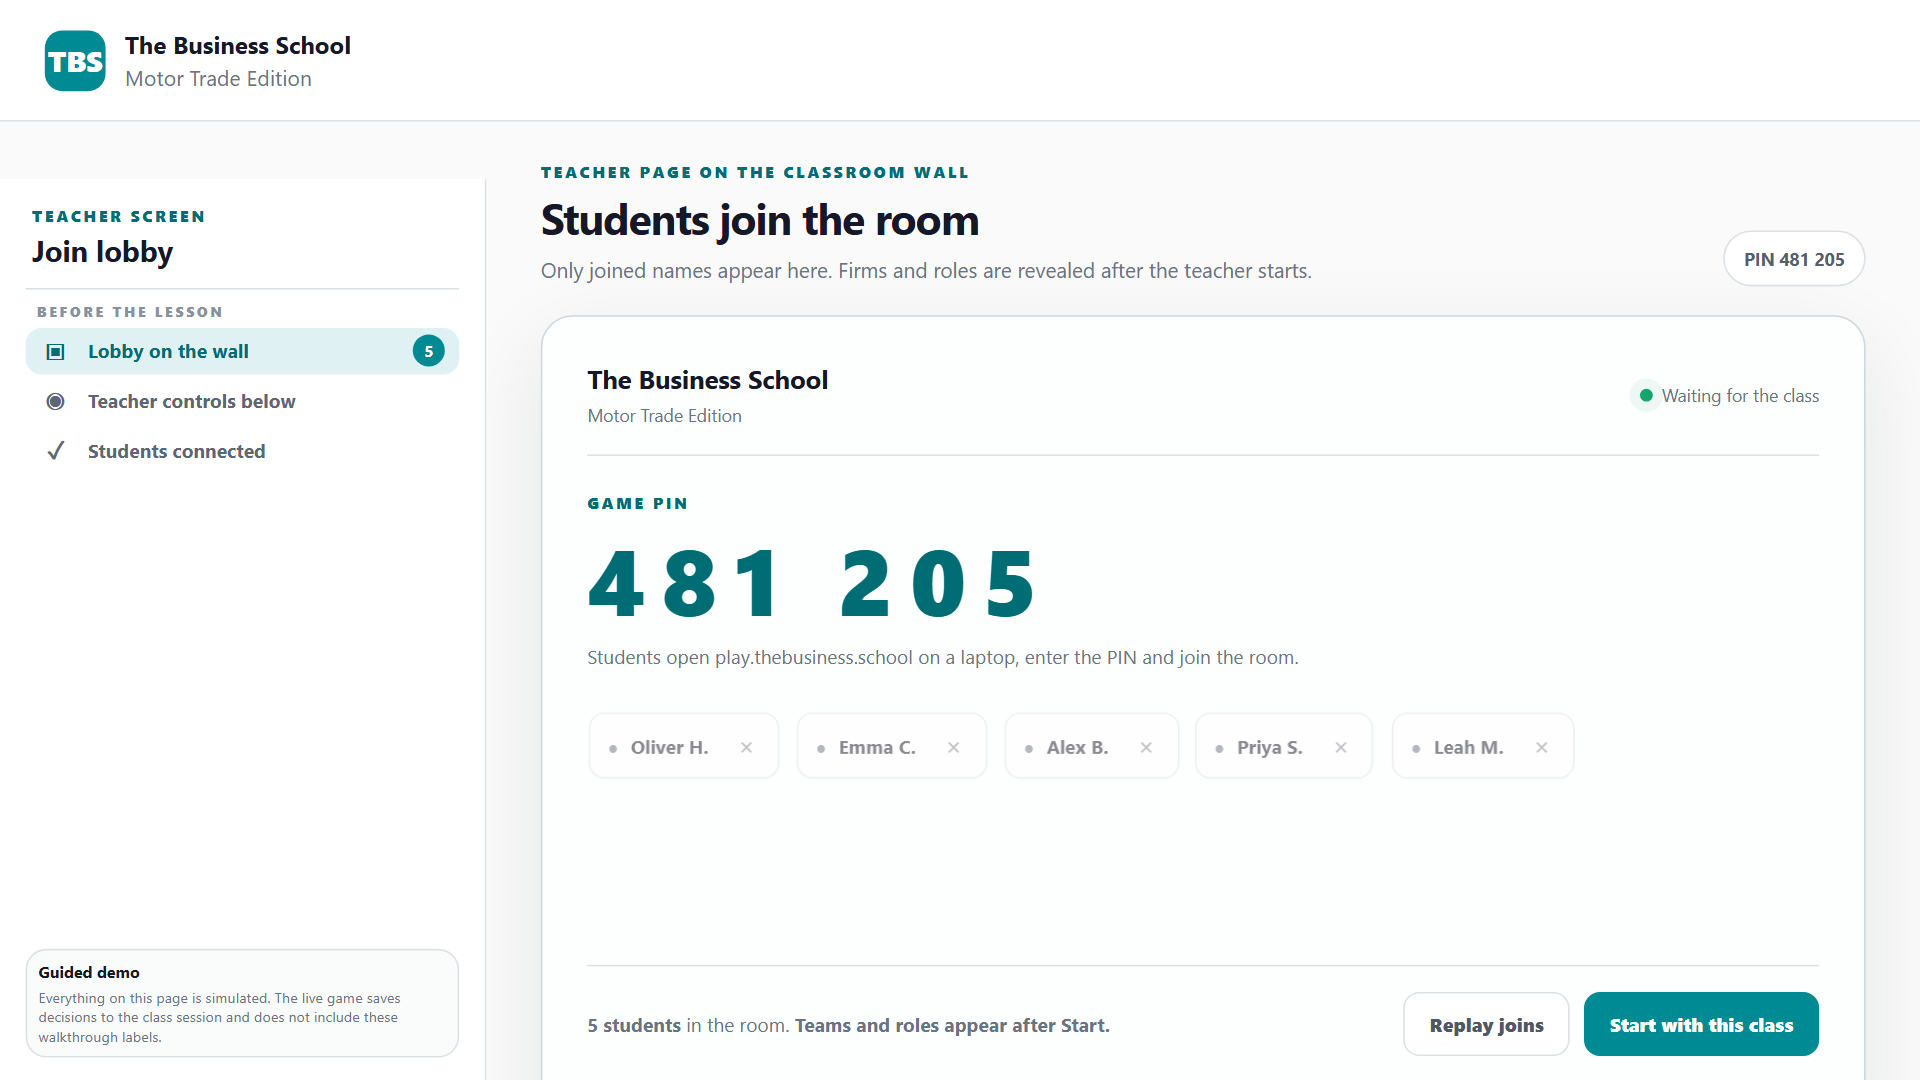
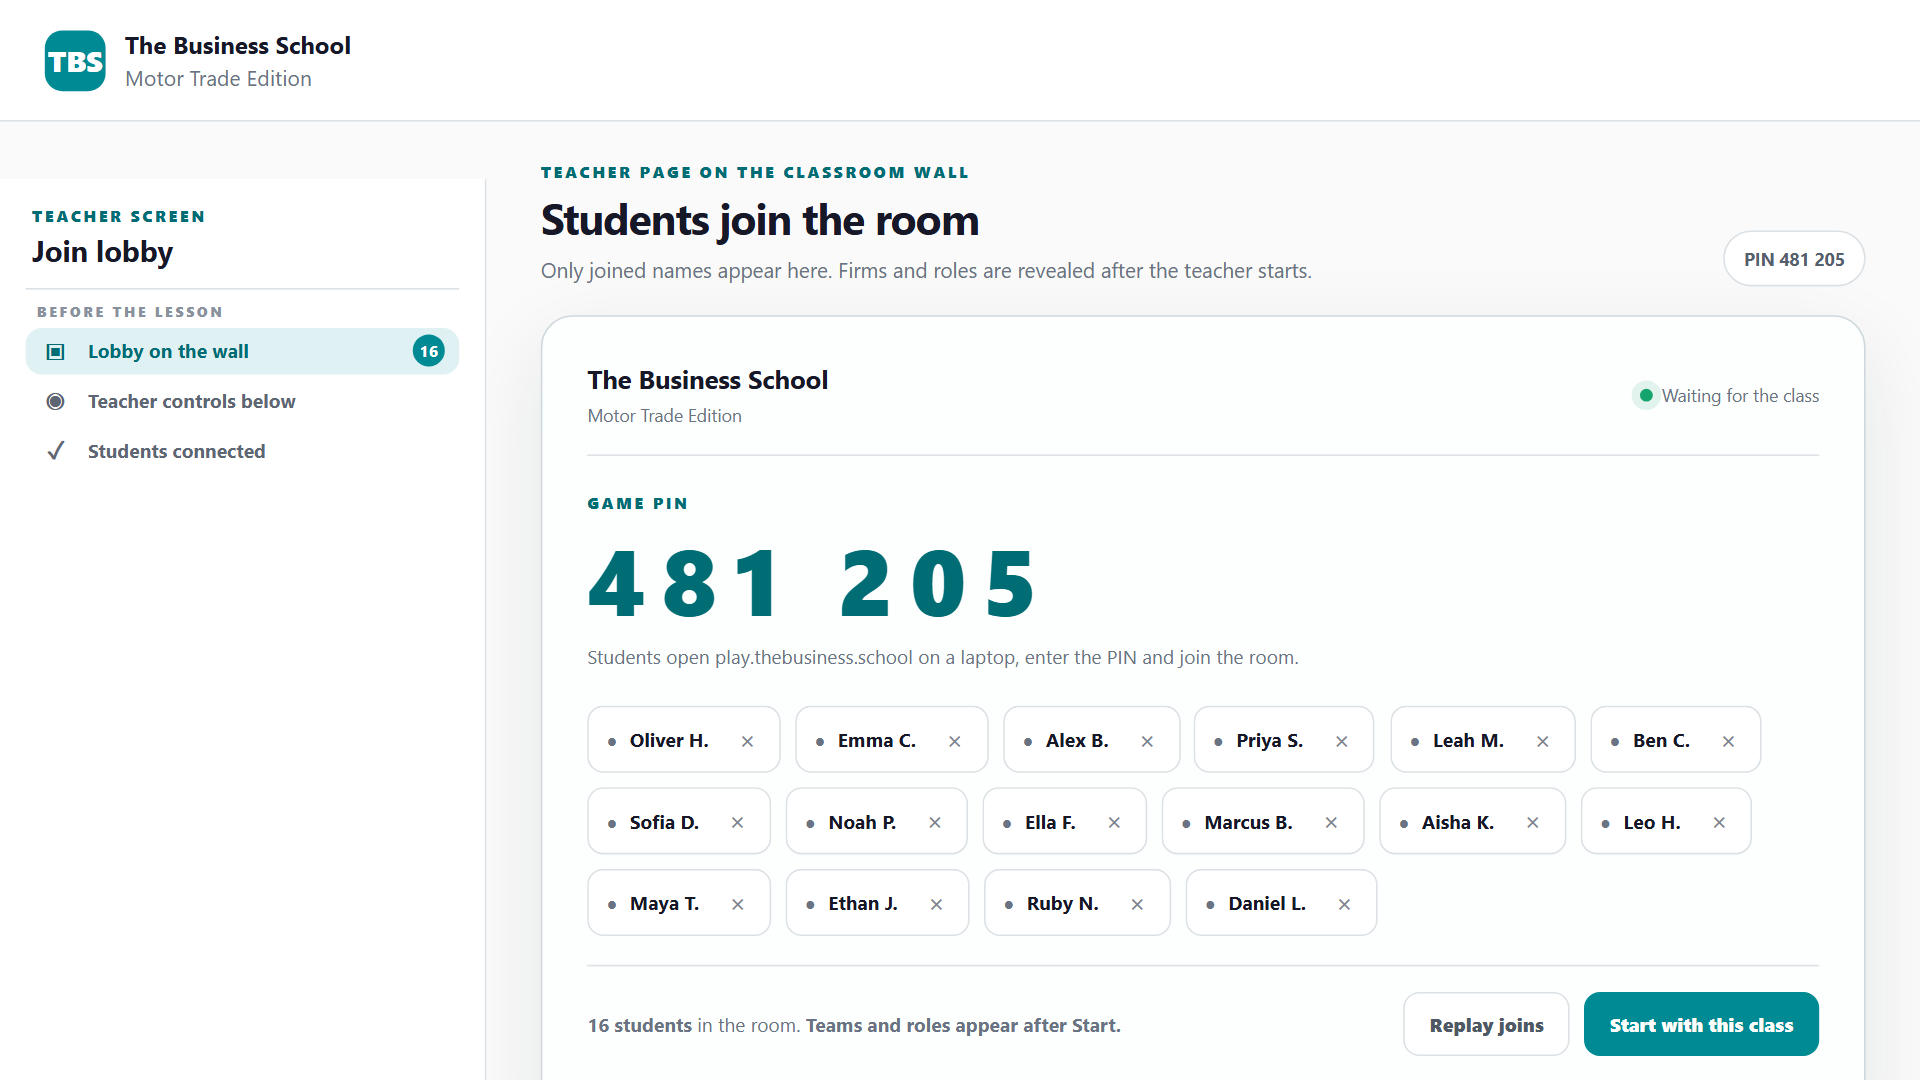
Homepage: lesson setup leads, the lobby follows with a full room
The setup screen is the first thing a teacher decides, so it takes the
lead image. The lobby moves into the grid and is recaptured with the join
animation run to the end, so sixteen named students are on the board
instead of an almost empty room.

diff --git a/index.html b/index.html
@@ -9,7 +9,7 @@
 <link rel="icon" href="/favicon.ico" sizes="any">
 <link rel="icon" type="image/svg+xml" href="/assets/favicon.svg">
 <link rel="apple-touch-icon" href="/apple-touch-icon.png">
-<link rel="preload" as="image" href="/assets/tbs-web/motor-02-lobby.png">
+<link rel="preload" as="image" href="/assets/tbs-web/motor-01-setup.png">
 </head>
 <body>
 <x-dc>
@@ -324,14 +324,14 @@
 <section style="padding:78px 0">
   <div class="rvl" style="max-width:1160px;margin:0 auto;padding:0 24px">
     <figure class="motor-gal-hero">
-      <img src="/assets/tbs-web/motor-02-lobby.png" width="1920" height="1080" alt="Join lobby with the game PIN and students appearing as they join" />
-      <figcaption>Your whole class joins with one PIN. No accounts, no installation.</figcaption>
+      <img src="/assets/tbs-web/motor-01-setup.png" width="1920" height="1080" alt="Teacher session setup with the GCSE and A-level chooser and the round length" />
+      <figcaption>You pick the level and how long each round runs. Then the class joins.</figcaption>
     </figure>
 
     <div class="motor-gal">
       <figure class="motor-gal-item">
-        <img src="/assets/tbs-web/motor-01-setup.png" width="1920" height="1080" loading="lazy" decoding="async" alt="Teacher session setup with the GCSE and A-level chooser and the round length" />
-        <figcaption>You pick the level and the clock.</figcaption>
+        <img src="/assets/tbs-web/motor-02-lobby.png" width="1920" height="1080" loading="lazy" decoding="async" alt="Join lobby showing the game PIN and sixteen students who have joined" />
+        <figcaption>Sixteen students in the room, joined with one PIN.</figcaption>
       </figure>
       <figure class="motor-gal-item">
         <img src="/assets/tbs-web/motor-03-forecourt.png" width="1920" height="1080" loading="lazy" decoding="async" alt="Shared forecourt listing vehicles with wholesale cost, retail reference and status" />
